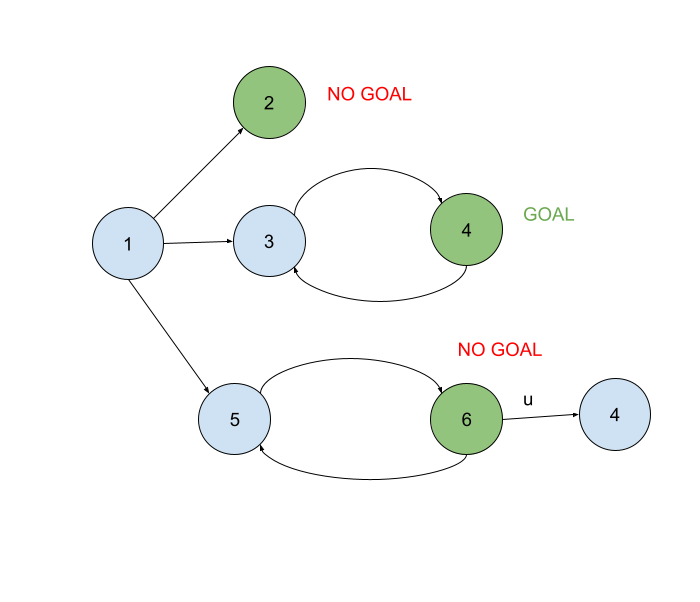
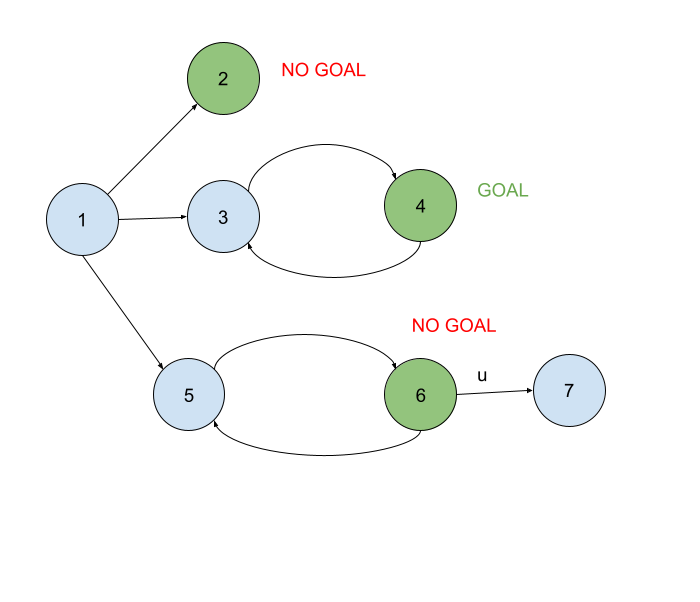
cambios de primera pasada

diff --git a/defensa/on-the-fly.tex b/defensa/on-the-fly.tex
@@ -20,7 +20,7 @@
     \end{figure}
     
     \vspace{-10pt}
-    Exploramos de a una transición $e \step{\l}{} e'$ o paso.\vspace{10pt}\footnote{Los llamamos $e$ en vez de $t$ para resaltar que son \textit{estados de la planta}}
+    Exploramos de a una transición $e \step{\l}{} e'$ o paso.
 \end{frame}
 %-------------------------------------------------------
 \begin{frame}{Frontera optimista y pesimista}
@@ -93,6 +93,12 @@
 	\end{block}
 	
 	%acá decir que en la posta es + dificil xq podes tener un descendiente que sea ganador pero sos perdedor xq se te propaga perdedor de otro descendiente que no podes evitar, pero que esta es la forma de detectar "nuevos" perdedores.
+\end{frame}
+%-------------------------------------------------------
+\begin{frame}{Repaso del algoritmo con ejemplo previo}
+	\begin{figure}
+		\includegraphics[width=0.9\textwidth]{figures/como-marcar-goals-FACAS.png}
+	\end{figure}
 \end{frame}
 %-------------------------------------------------------
 \begin{frame}{Resúmen del nuevo algoritmo}
